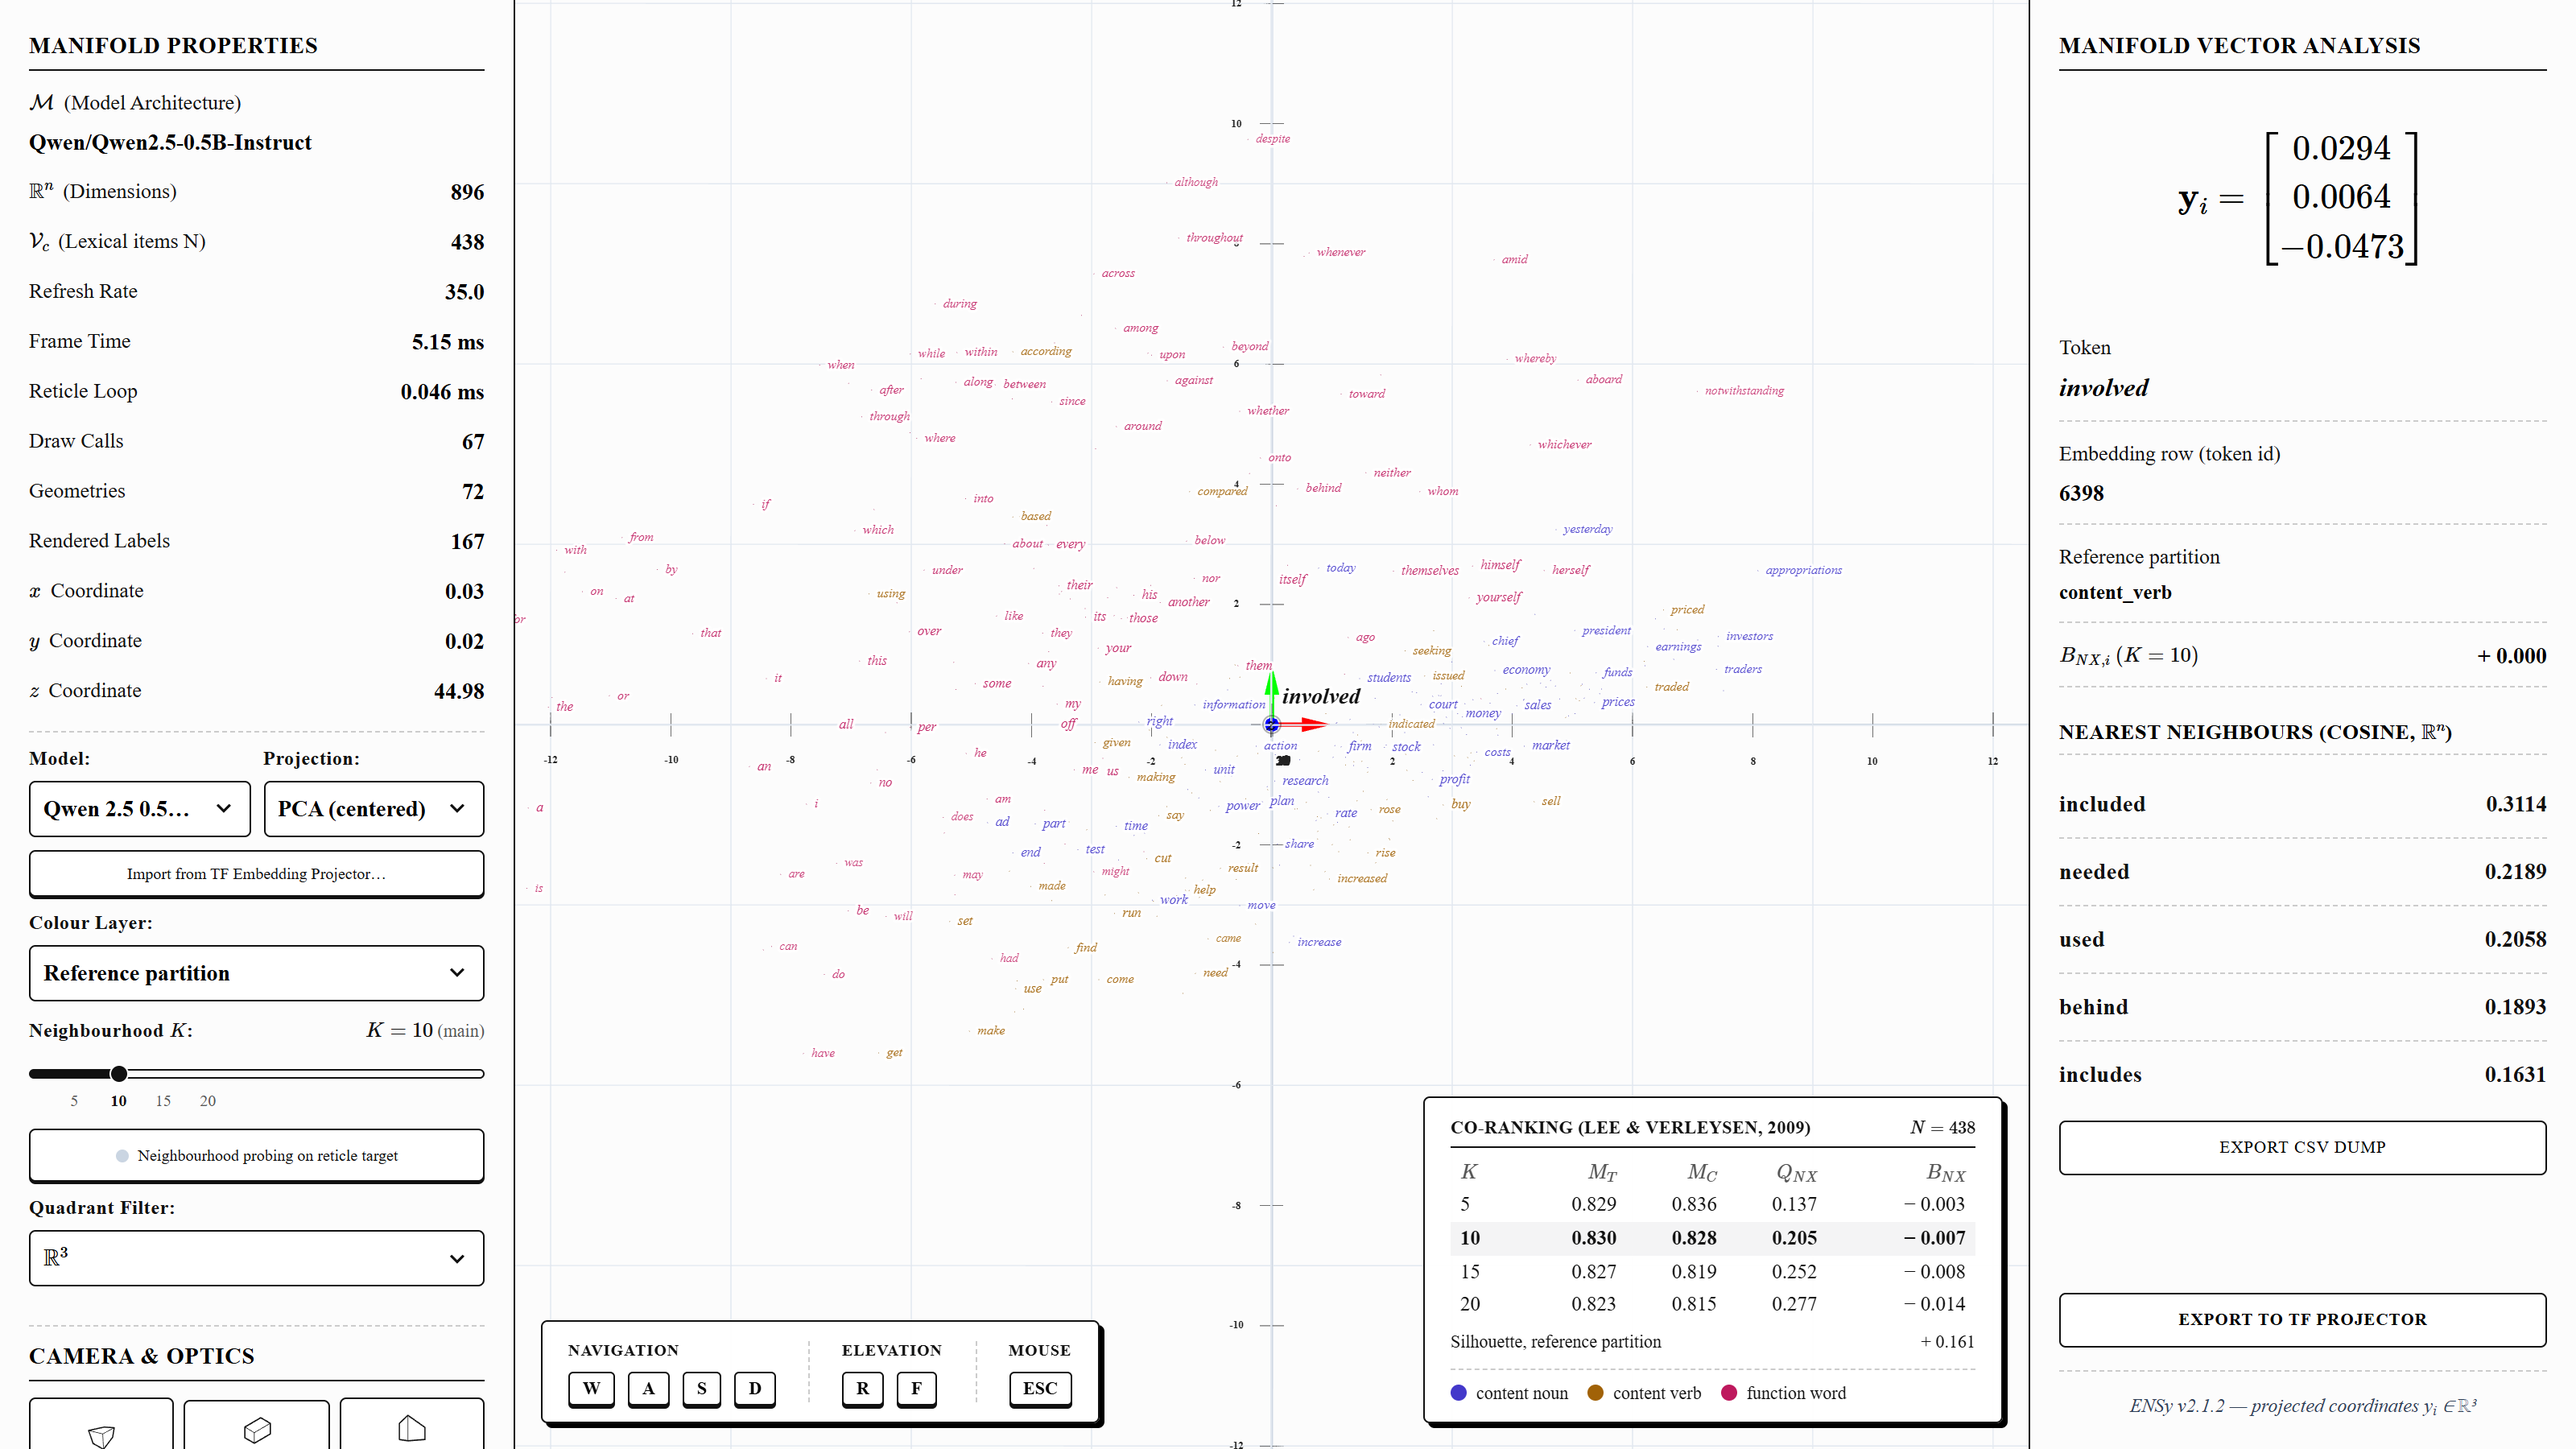
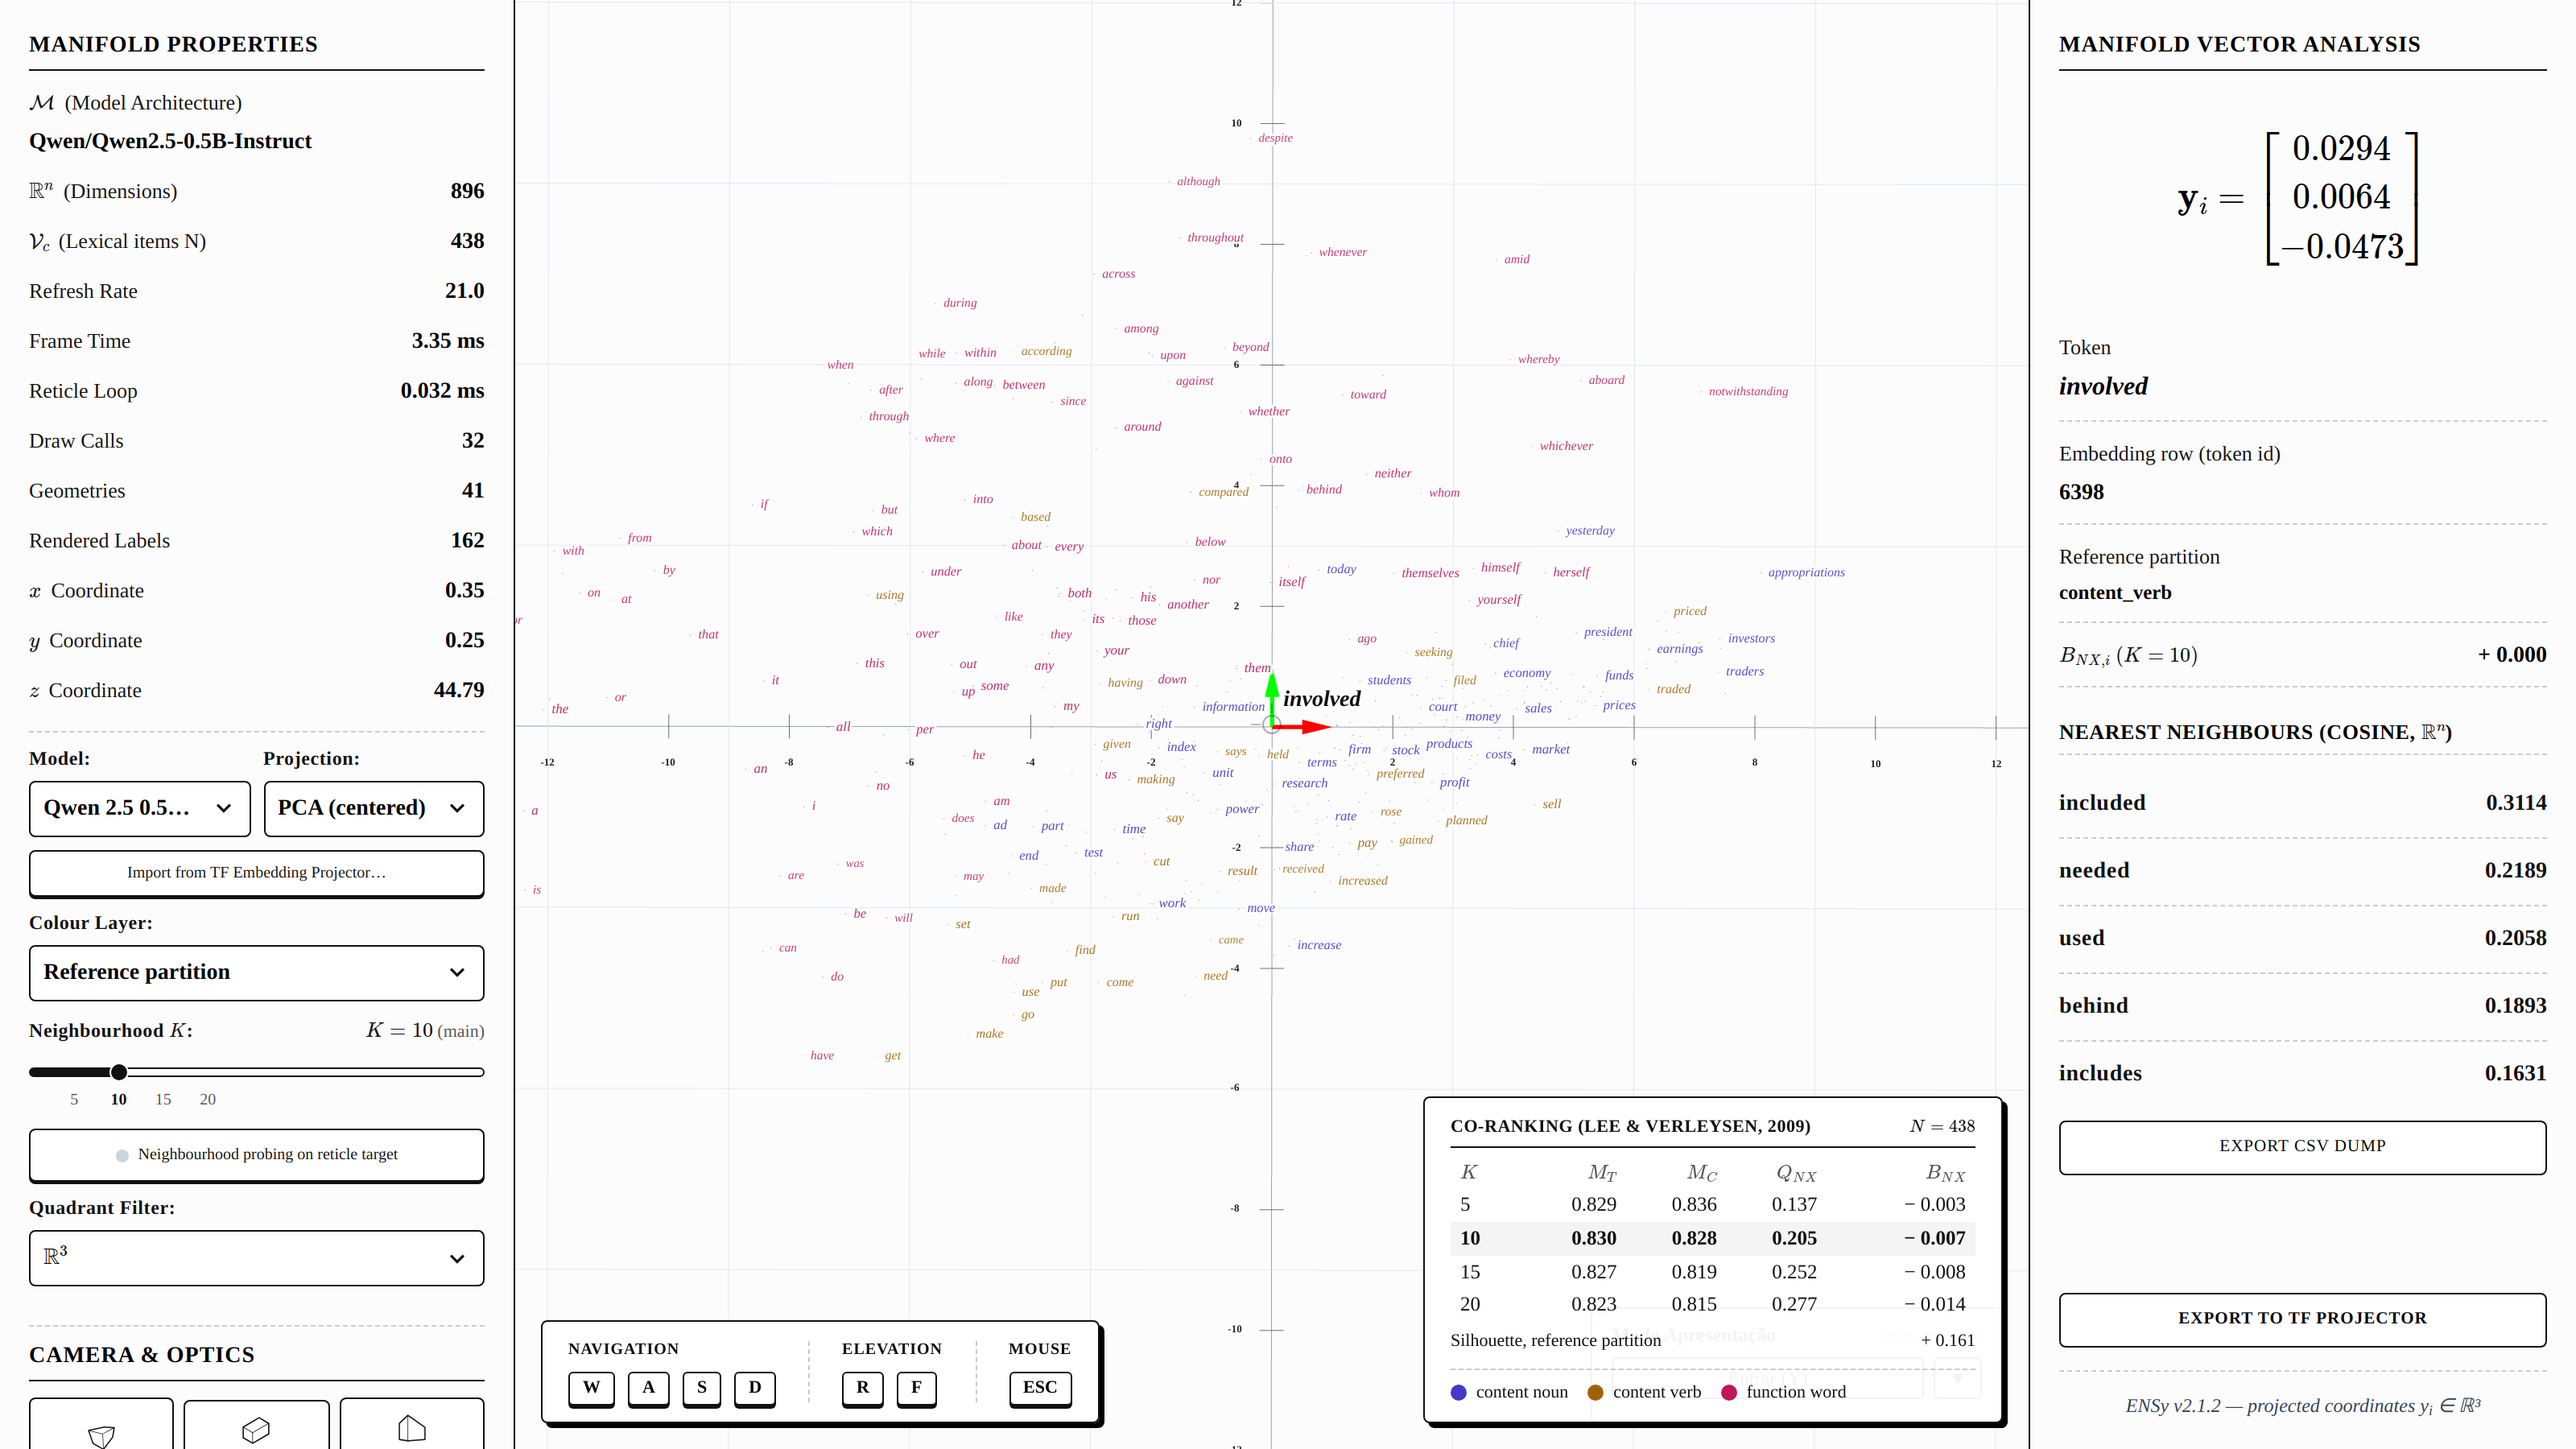
fix(docs): validate and refresh camera preset captures

diff --git a/docs/capture_screenshots.py b/docs/capture_screenshots.py
@@ -61,7 +61,7 @@ class Tour:
         self.wait_for_data()
 
     def wait_for_data(self):
-        self.page.wait_for_selector("text=Co-ranking", timeout=300_000)
+        self.page.wait_for_selector("text=/co-ranking/i", timeout=300_000)
         self.page.wait_for_selector("text=Computing projection", state="detached", timeout=300_000)
         self.page.wait_for_timeout(2500)  # token positions animate into place
 
@@ -76,6 +76,24 @@ class Tour:
         self.page.get_by_role("button", name=name).click()
         self.page.wait_for_timeout(2600)  # LERP/SLERP transition
         self.page.locator("aside").first.evaluate("el => el.scrollTop = 0")  # the click scrolled it
+
+    def assert_axis_aligned_preset(self, preset: str):
+        """Fail the capture if Front/Top did not settle in orthographic mode."""
+        settings = self.page.evaluate(
+            "() => JSON.parse(localStorage.getItem('visualizerSettings') || '{}')"
+        )
+        expected_hidden_axis = {"front": "z", "top": "y"}.get(preset)
+        if expected_hidden_axis is None:
+            raise ValueError(f"Unsupported axis-aligned preset: {preset}")
+        if settings.get("cameraMode") != "parallel":
+            raise AssertionError(
+                f"{preset} preset is not parallel: cameraMode={settings.get('cameraMode')!r}"
+            )
+        hidden_axis = "show" + expected_hidden_axis.upper() + "Axis"
+        if settings.get(hidden_axis) is not False:
+            raise AssertionError(
+                f"{preset} preset must hide the depth axis ({hidden_axis})"
+            )
 
     def pin(self, word: str):
         self.page.evaluate(f"window.__selectToken({json.dumps(word)})")
@@ -226,12 +244,19 @@ def main():
 
         print("[7] camera modes")
         t.window(WINDOW_16_9)
-        # axis-aligned presets use the parallel (orthographic) camera: no perspective foreshortening
-        t.open(modelKey="qwen", projectionType="pca", showPlaneBackground=False)  # words behind a plane would fade
-        t.page.locator("button", has_text="Parallel").first.click()
-        t.page.wait_for_timeout(600)
-        for btn, name in [("Front (XY)", "fig11_front"), ("Top (XZ)", "fig12_top")]:
+        # Front/Top presets must switch themselves to parallel (orthographic)
+        # projection and hide only the axis perpendicular to the displayed plane.
+        # Start in perspective so this capture also exercises the automatic switch.
+        t.open(
+            modelKey="qwen", projectionType="pca",
+            cameraMode="perspective", showPlaneBackground=False,
+        )  # words behind a plane would fade
+        for btn, name, preset in [
+            ("Front (XY)", "fig11_front", "front"),
+            ("Top (XZ)", "fig12_top", "top"),
+        ]:
             t.preset(btn)
+            t.assert_axis_aligned_preset(preset)
             t.shot(name)
 
         browser.close()
